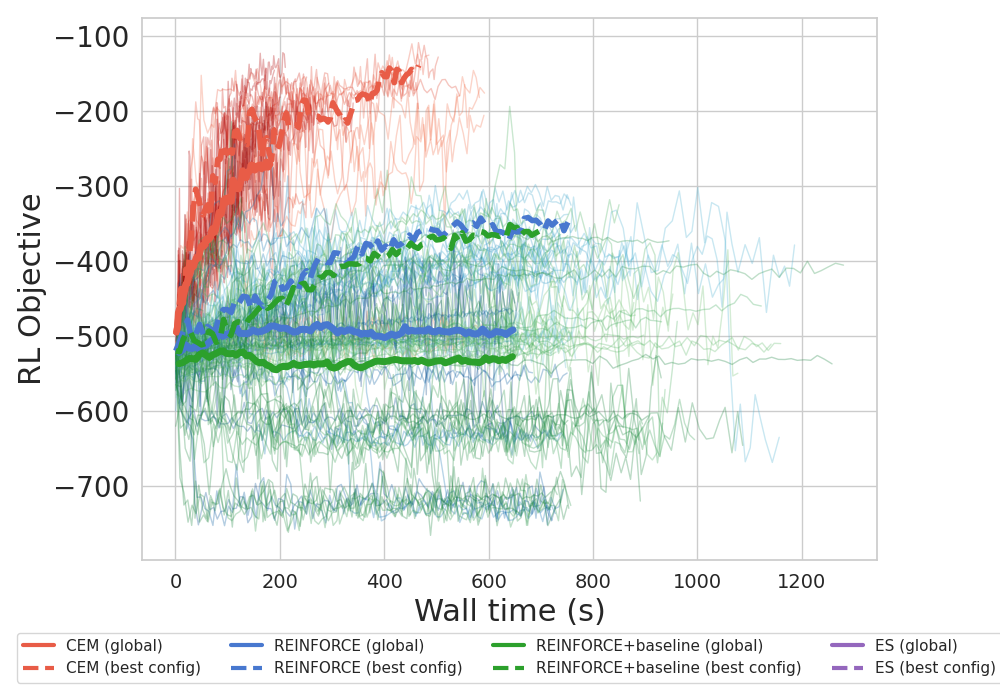
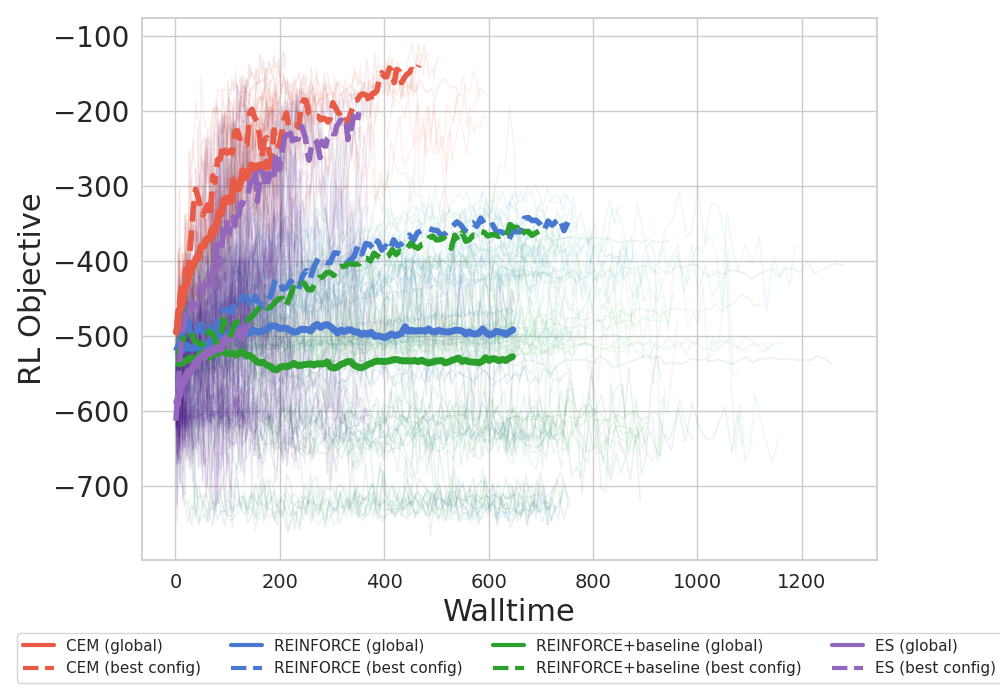
ES sweep

Changed region(s): [[0.155, 0.06, 0.806, 0.75], [0.403, 0.84, 0.62, 0.9], [0.744, 0.63, 0.775, 0.66]]

diff --git a/plotting_walltime.py b/plotting_walltime.py
@@ -4,7 +4,7 @@ import seaborn as sns
 from scipy.ndimage import gaussian_filter1d
 from matplotlib.lines import Line2D
 
-def plot_data(data_paths, line_style, color_map, alpha=0.3):
+def plot_data(data_paths, line_style, color_map, alpha=0.1):
     # Store data for calculating mean trend
     all_x_data = []
     all_y_data = []
@@ -31,7 +31,6 @@ def plot_data(data_paths, line_style, color_map, alpha=0.3):
                          color=color_map, linewidth=1, alpha=alpha)
         except FileNotFoundError:
             continue
-    
     return all_x_data, all_y_data
 
 def compute_mean_performance(x_data_list, y_data_list):
@@ -186,14 +185,40 @@ for i, lr in enumerate([0.0001, 0.001, 0.01, 0.1]):  # Adjust parameters as need
     for j, noise_std in enumerate([0.1, 1, 0.01]):  # Adjust parameters as needed
         for k, n_pop in enumerate([8, 16, 32, 64]):  # Adjust parameters as needed
             data_paths = [
-                f'beta_es_data_Pendulum-v1_pop{n_pop}_size16_evals50_lr{lr}_std{noise_std}_seed{seed}/training_data_iter.npy'
+                f'beta_es_data_Pendulum-v1_pop{n_pop}_size16_evals50_lr{lr}_std{noise_std}_seed{seed}/training_data_final.npy'
                 for seed in range(3)  # Adjust seed count as needed
             ]
             color = sns.color_palette("Purples", n_colors=len(combs)*2)[len(combs) + c_idx]
-            x_data, y_data = plot_data(data_paths, '-', color)
+            
+            # Special handling for ES data - don't use cumsum
+            all_x_data = []
+            all_y_data = []
+            
+            # Plot individual seeds for ES
+            for data_path in data_paths:
+                try:
+                    data = np.load(data_path, allow_pickle=True).item()
+                    train_scores = data["train_scores"]
+                    train_samples = data["walltime"]  # These are already cumulative for ES
+                    
+                    num_points = 100
+                    indices = np.linspace(0, train_scores.shape[0] - 1, num_points, dtype=int)
+                    
+                    train_scores = train_scores[indices]
+                    train_samples_es = train_samples[indices]  # Use directly without cumsum
+                    
+                    # Store data for mean calculation
+                    all_x_data.append(train_samples_es)
+                    all_y_data.append(train_scores)
+                    
+                    # Plot individual seed
+                    sns.lineplot(x=train_samples_es, y=train_scores, linestyle='-', 
+                                color=color, linewidth=1, alpha=0.1)
+                except FileNotFoundError:
+                    continue
             
             # Compute mean performance for this hyperparameter configuration
-            config_x, config_y, config_score = compute_mean_performance(x_data, y_data)
+            config_x, config_y, config_score = compute_mean_performance(all_x_data, all_y_data)
             
             # Check if this is the best configuration
             if config_score > new_baseline_best_config_score:
@@ -201,8 +226,8 @@ for i, lr in enumerate([0.0001, 0.001, 0.01, 0.1]):  # Adjust parameters as need
                 new_baseline_best_config_x = config_x
                 new_baseline_best_config_y = config_y
             
-            new_baseline_x_data.extend(x_data)
-            new_baseline_y_data.extend(y_data)
+            new_baseline_x_data.extend(all_x_data)
+            new_baseline_y_data.extend(all_y_data)
             c_idx += 1
 
 # Plot global trends for each algorithm
@@ -259,7 +284,7 @@ legend_elements = [
 plt.legend(handles=legend_elements, fontsize=11, loc='upper center', bbox_to_anchor=(0.5, -0.12), ncol=4)
 
 # Increase font sizes for better readability
-plt.xlabel("Wall time (s)", fontsize=22)
+plt.xlabel("Walltime", fontsize=22)
 plt.ylabel("RL Objective", fontsize=22)
 
 # Increase tick label sizes

diff --git a/plotting.py b/plotting.py
@@ -4,7 +4,7 @@ import seaborn as sns
 from scipy.ndimage import gaussian_filter1d
 from matplotlib.lines import Line2D
 
-def plot_data(data_paths, line_style, color_map, alpha=0.3):
+def plot_data(data_paths, line_style, color_map, alpha=0.1):
     # Store data for calculating mean trend
     all_x_data = []
     all_y_data = []
@@ -31,7 +31,6 @@ def plot_data(data_paths, line_style, color_map, alpha=0.3):
                          color=color_map, linewidth=1, alpha=alpha)
         except FileNotFoundError:
             continue
-    
     return all_x_data, all_y_data
 
 def compute_mean_performance(x_data_list, y_data_list):
@@ -186,14 +185,40 @@ for i, lr in enumerate([0.0001, 0.001, 0.01, 0.1]):  # Adjust parameters as need
     for j, noise_std in enumerate([0.1, 1, 0.01]):  # Adjust parameters as needed
         for k, n_pop in enumerate([8, 16, 32, 64]):  # Adjust parameters as needed
             data_paths = [
-                f'beta_es_data_Pendulum-v1_pop{n_pop}_size16_evals50_lr{lr}_std{noise_std}_seed{seed}/training_data_iter.npy'
+                f'beta_es_data_Pendulum-v1_pop{n_pop}_size16_evals50_lr{lr}_std{noise_std}_seed{seed}/training_data_final.npy'
                 for seed in range(3)  # Adjust seed count as needed
             ]
             color = sns.color_palette("Purples", n_colors=len(combs)*2)[len(combs) + c_idx]
-            x_data, y_data = plot_data(data_paths, '-', color)
+            
+            # Special handling for ES data - don't use cumsum
+            all_x_data = []
+            all_y_data = []
+            
+            # Plot individual seeds for ES
+            for data_path in data_paths:
+                try:
+                    data = np.load(data_path, allow_pickle=True).item()
+                    train_scores = data["train_scores"]
+                    train_samples = data["total_samples"]  # These are already cumulative for ES
+                    
+                    num_points = 100
+                    indices = np.linspace(0, train_scores.shape[0] - 1, num_points, dtype=int)
+                    
+                    train_scores = train_scores[indices]
+                    train_samples_es = train_samples[indices]  # Use directly without cumsum
+                    
+                    # Store data for mean calculation
+                    all_x_data.append(train_samples_es)
+                    all_y_data.append(train_scores)
+                    
+                    # Plot individual seed
+                    sns.lineplot(x=train_samples_es, y=train_scores, linestyle='-', 
+                                color=color, linewidth=1, alpha=0.1)
+                except FileNotFoundError:
+                    continue
             
             # Compute mean performance for this hyperparameter configuration
-            config_x, config_y, config_score = compute_mean_performance(x_data, y_data)
+            config_x, config_y, config_score = compute_mean_performance(all_x_data, all_y_data)
             
             # Check if this is the best configuration
             if config_score > new_baseline_best_config_score:
@@ -201,8 +226,8 @@ for i, lr in enumerate([0.0001, 0.001, 0.01, 0.1]):  # Adjust parameters as need
                 new_baseline_best_config_x = config_x
                 new_baseline_best_config_y = config_y
             
-            new_baseline_x_data.extend(x_data)
-            new_baseline_y_data.extend(y_data)
+            new_baseline_x_data.extend(all_x_data)
+            new_baseline_y_data.extend(all_y_data)
             c_idx += 1
 
 # Plot global trends for each algorithm

diff --git a/es_beta_pendulum.py b/es_beta_pendulum.py
@@ -186,8 +186,7 @@ def es(
         training_data["theta"][iters] = theta
         theta += learning_rate * gradient_estimate
         # Update training data
-        total_samples += sum(episode_lengths)
-        training_data["total_samples"][iters] = total_samples
+        training_data["total_samples"][iters] = sum(episode_lengths)
         training_data["perturbation_scores"][iters] = rewards
         training_data["train_scores"][iters] = train_score
         training_data["walltime"][iters] = perf_counter() - t
